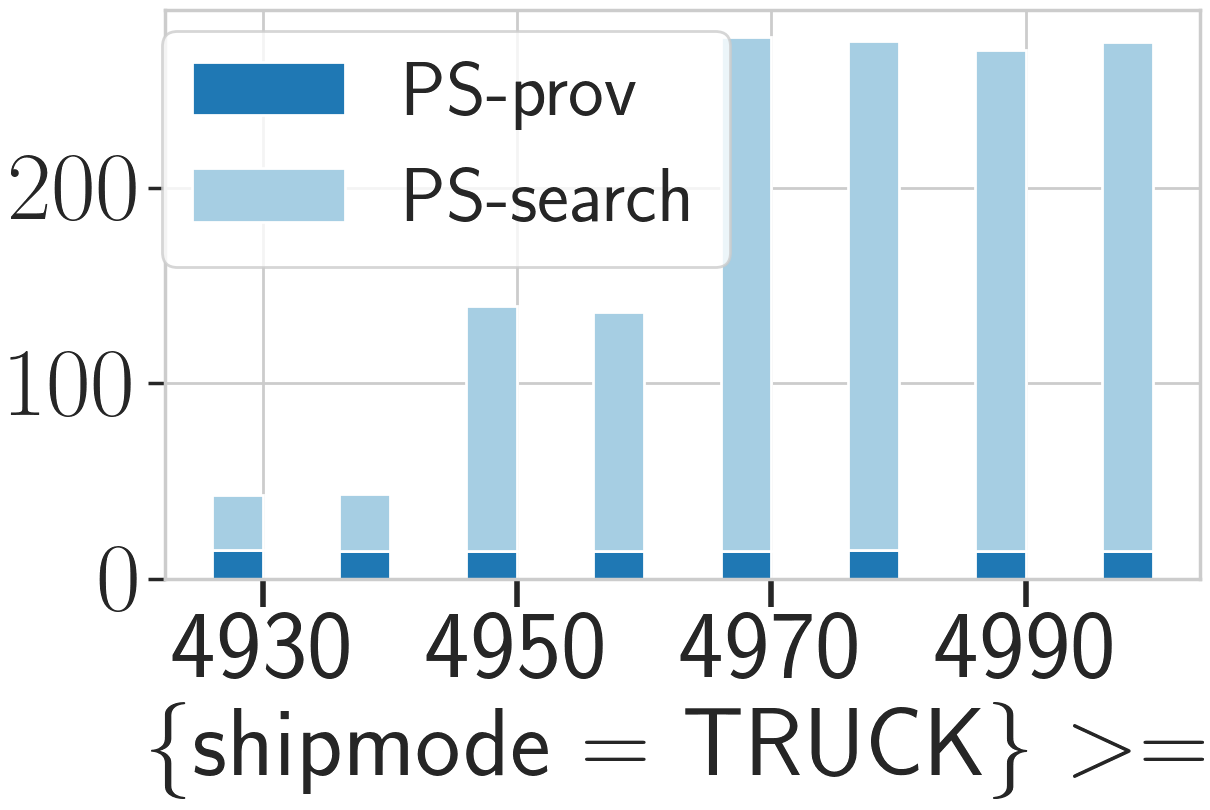
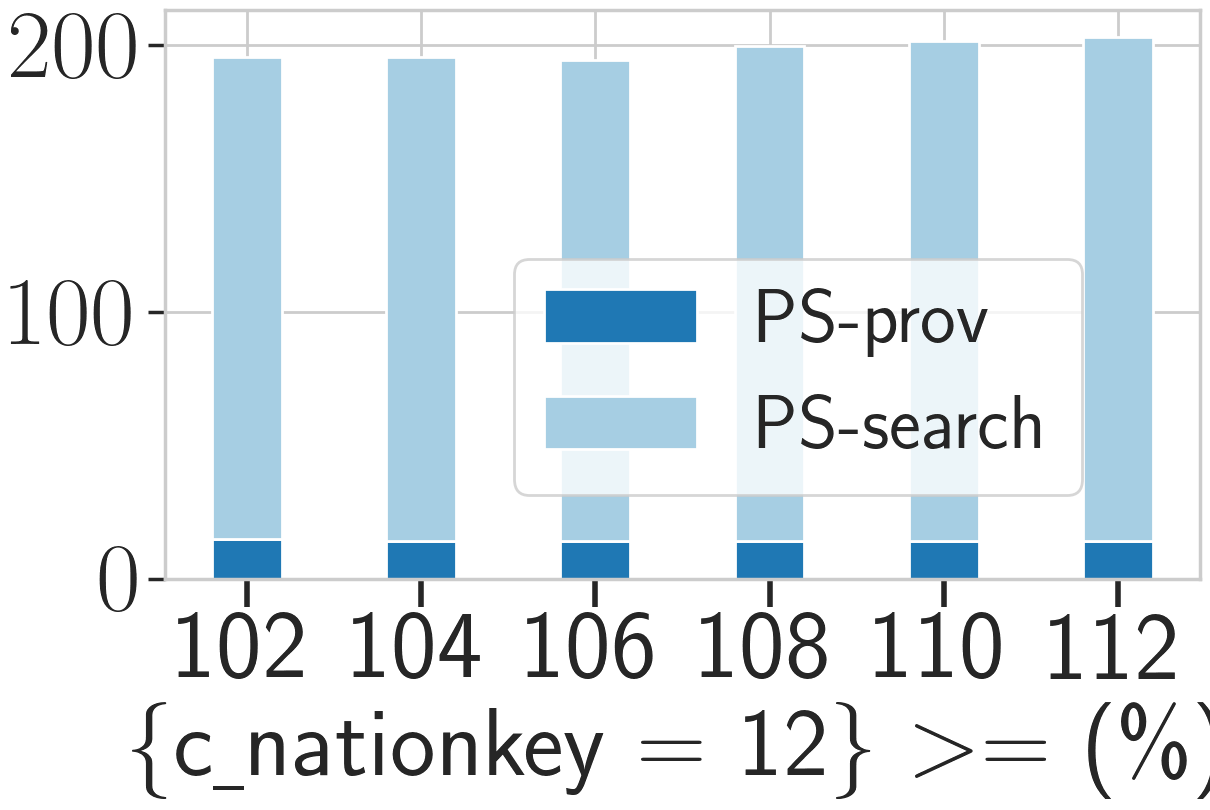
1G constraint change q3 refine

diff --git a/Experiment/TPCH/1G/constraint_change/q3_refine/fig.py b/Experiment/TPCH/1G/constraint_change/q3_refine/fig.py
@@ -58,7 +58,7 @@ def run(query, size, constraint):
             execution_timebl1.append(0)
             execution_timebl2.append(0)
     # x_list = [19941230, 19950115, 19950130, 19950215, 19950230, 19950315, 19950330, 19950415]
-    x_list = [4930, 4950, 4970, 4990]
+    x_list = [102, 104, 106, 108, 110, 112]
 
     print(x_list, execution_timeps1, execution_timeps2)
 
@@ -81,12 +81,12 @@ def run(query, size, constraint):
     #         color=color[3], label=label[3])
     #
 
-    plt.xticks(np.arange(0, 8, 2) + bar_width/2, x_list, rotation=0, fontsize=70)
+    plt.xticks(np.arange(0, 6), x_list, rotation=0, fontsize=70)
     plt.yticks(fontsize=70, weight='bold')
 
-    plt.xlabel(r'\{shipmode = TRUCK\} $>=$')
+    plt.xlabel(r'\{c\underline{ }nationkey = 12\} $>=$ (\%)')
     # plt.ylabel('Running time (s)')
-    plt.legend(loc='upper left', bbox_to_anchor=(-0.04, 1.03), fontsize=55)
+    plt.legend(loc='upper left', bbox_to_anchor=(0.3, 0.63), fontsize=55)
     # plt.legend(loc="best", fontsize=55)
     plt.tight_layout()
     fig_path = "constraint_change_q" + str(query) + "_" + size + "_" + constraint + ".png"

diff --git a/Experiment/TPCH/1G/constraint_change/q3_refine/constraint_change_q3_refine.py b/Experiment/TPCH/1G/constraint_change/q3_refine/constraint_change_q3_refine.py
@@ -23,7 +23,7 @@ running_time2 = []
 
 data_file_prefix = r"../../../../../InputData/TPC-H/1Gdata/"
 query_file_prefix = r"./q"
-time_limit = 5 * 60
+time_limit = 10 * 60
 
 time_output_prefix = r"./result_"
 
@@ -41,7 +41,7 @@ def run_constraint(q, c):
     result_output = open(result_output_file, "w")
     result_output.write("selection file, result\n")
 
-    for i in range(1, 9):
+    for i in range(1, 7):
         print("constraint {}\n".format(i))
         constraint_file = r"./constraint_" + c + str(i) + ".json"
         print("========================== provenance search ===================================")
